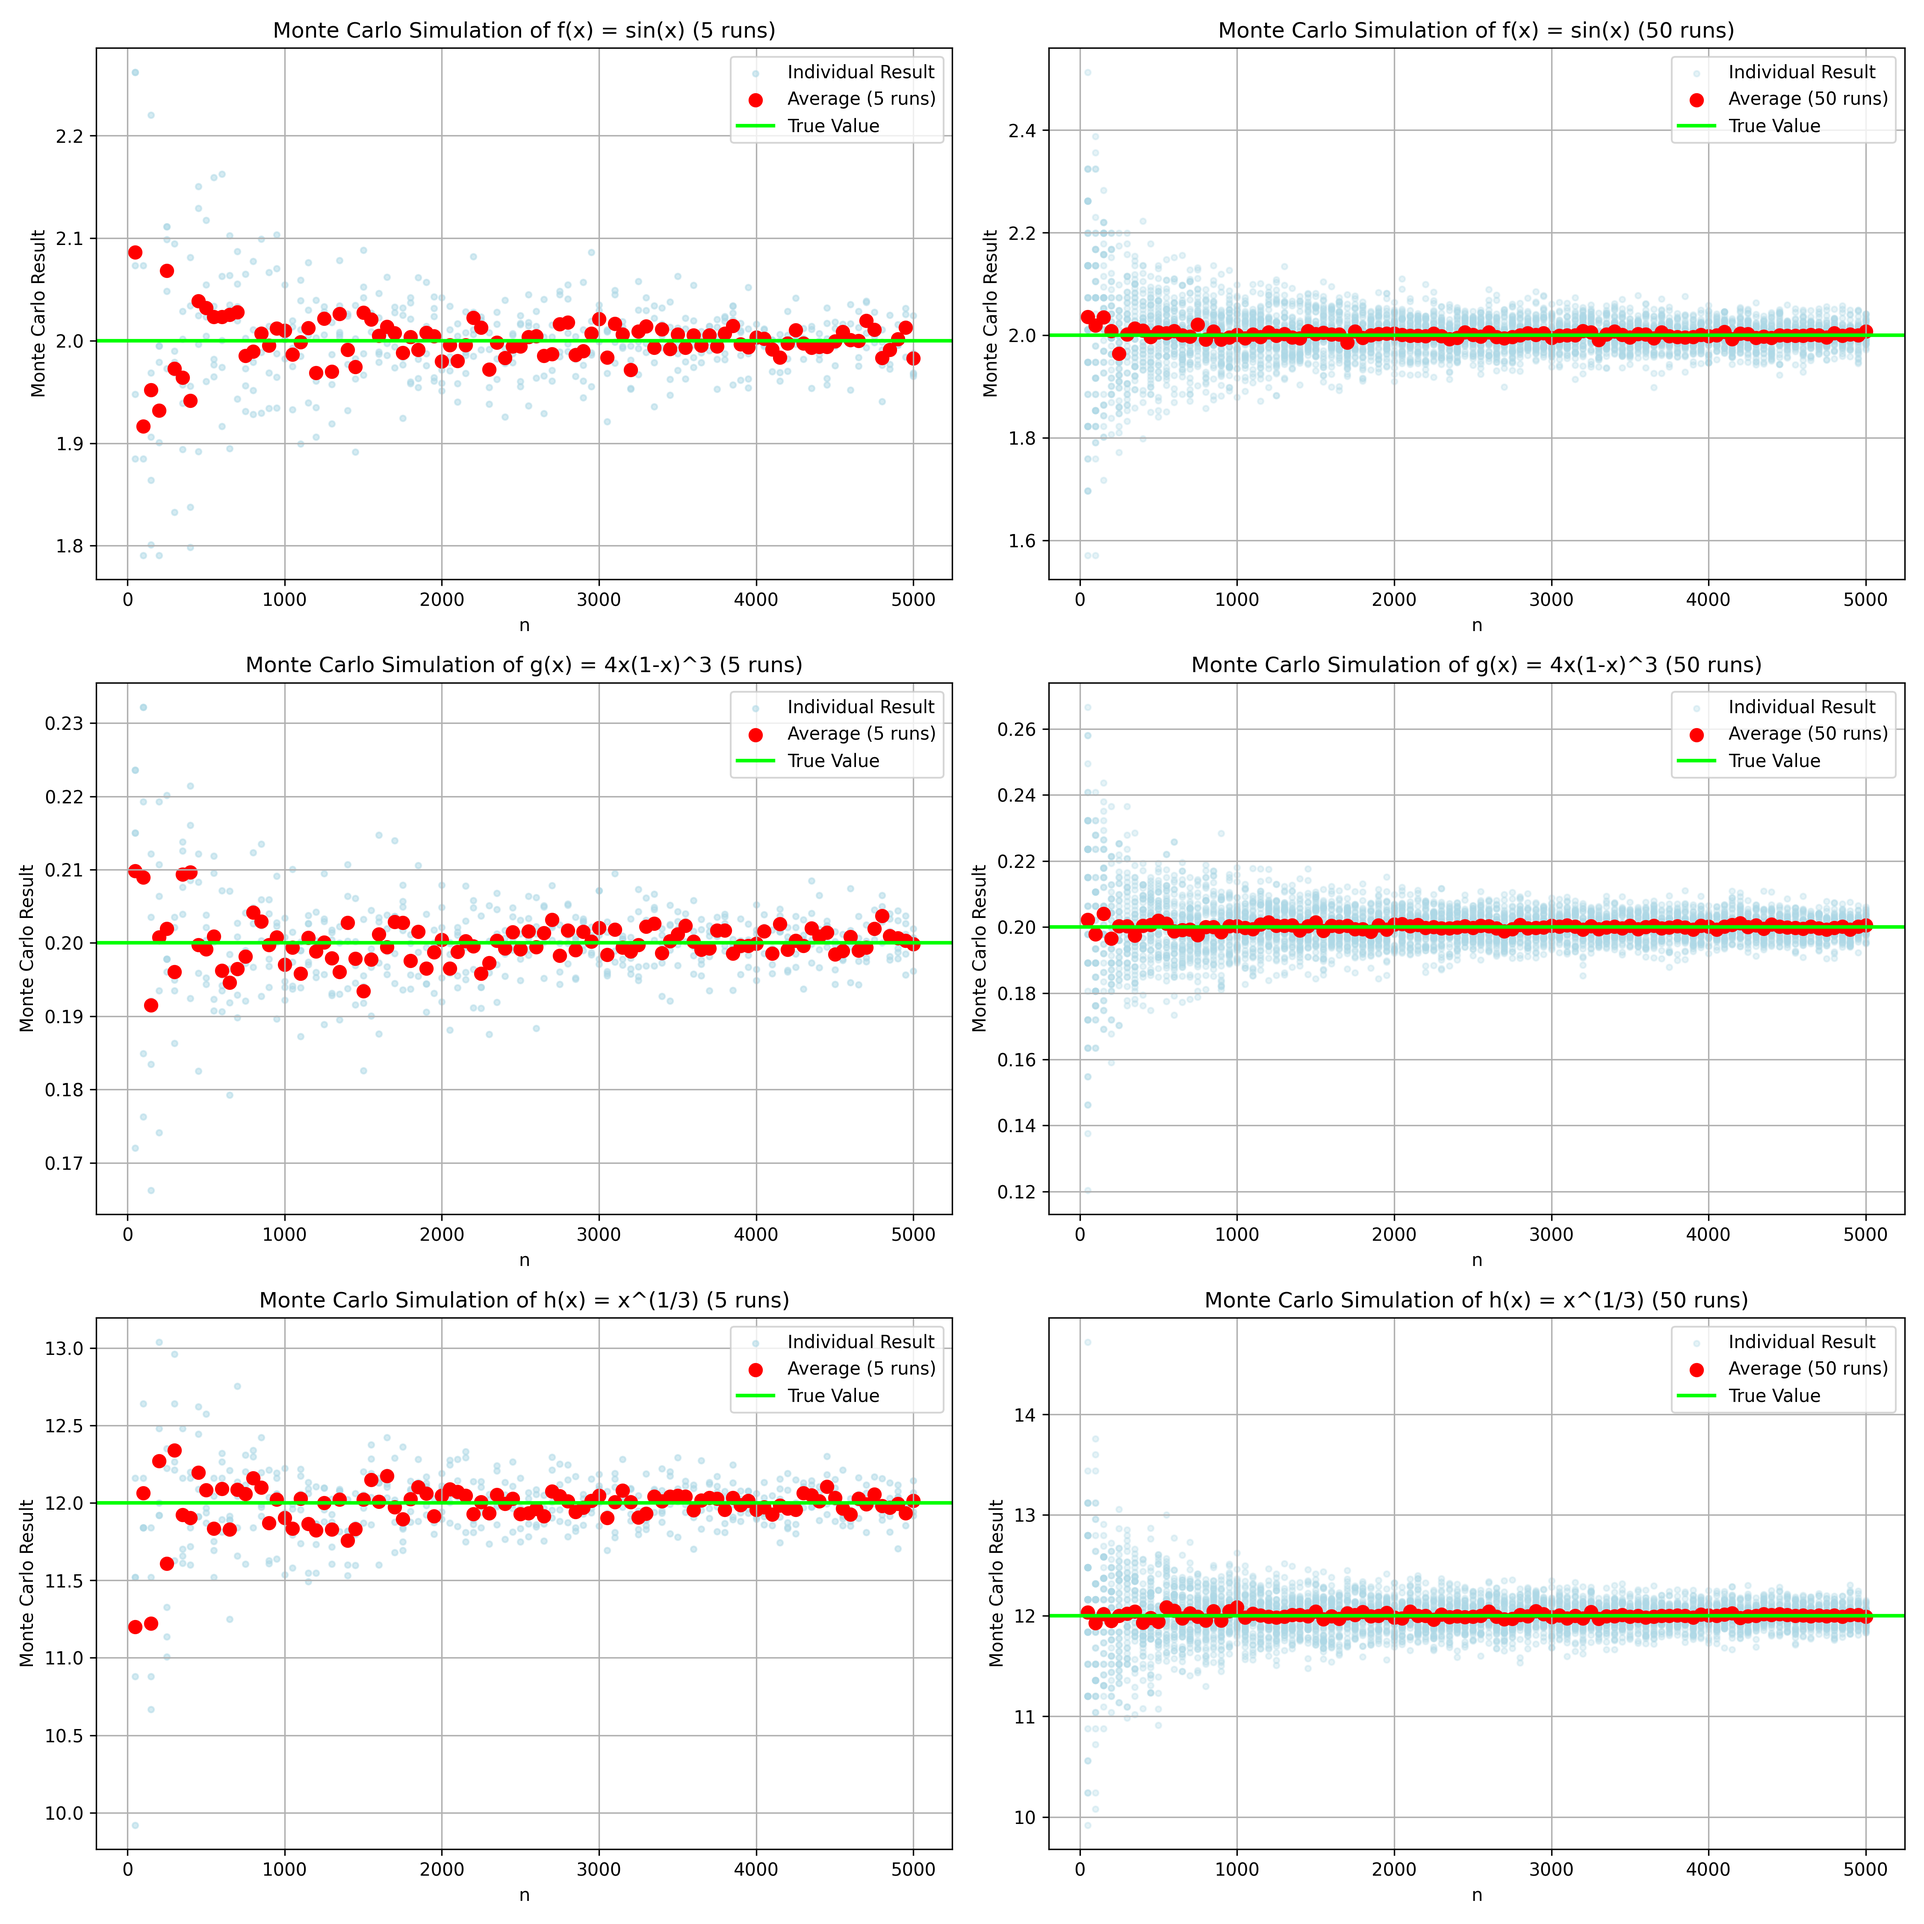
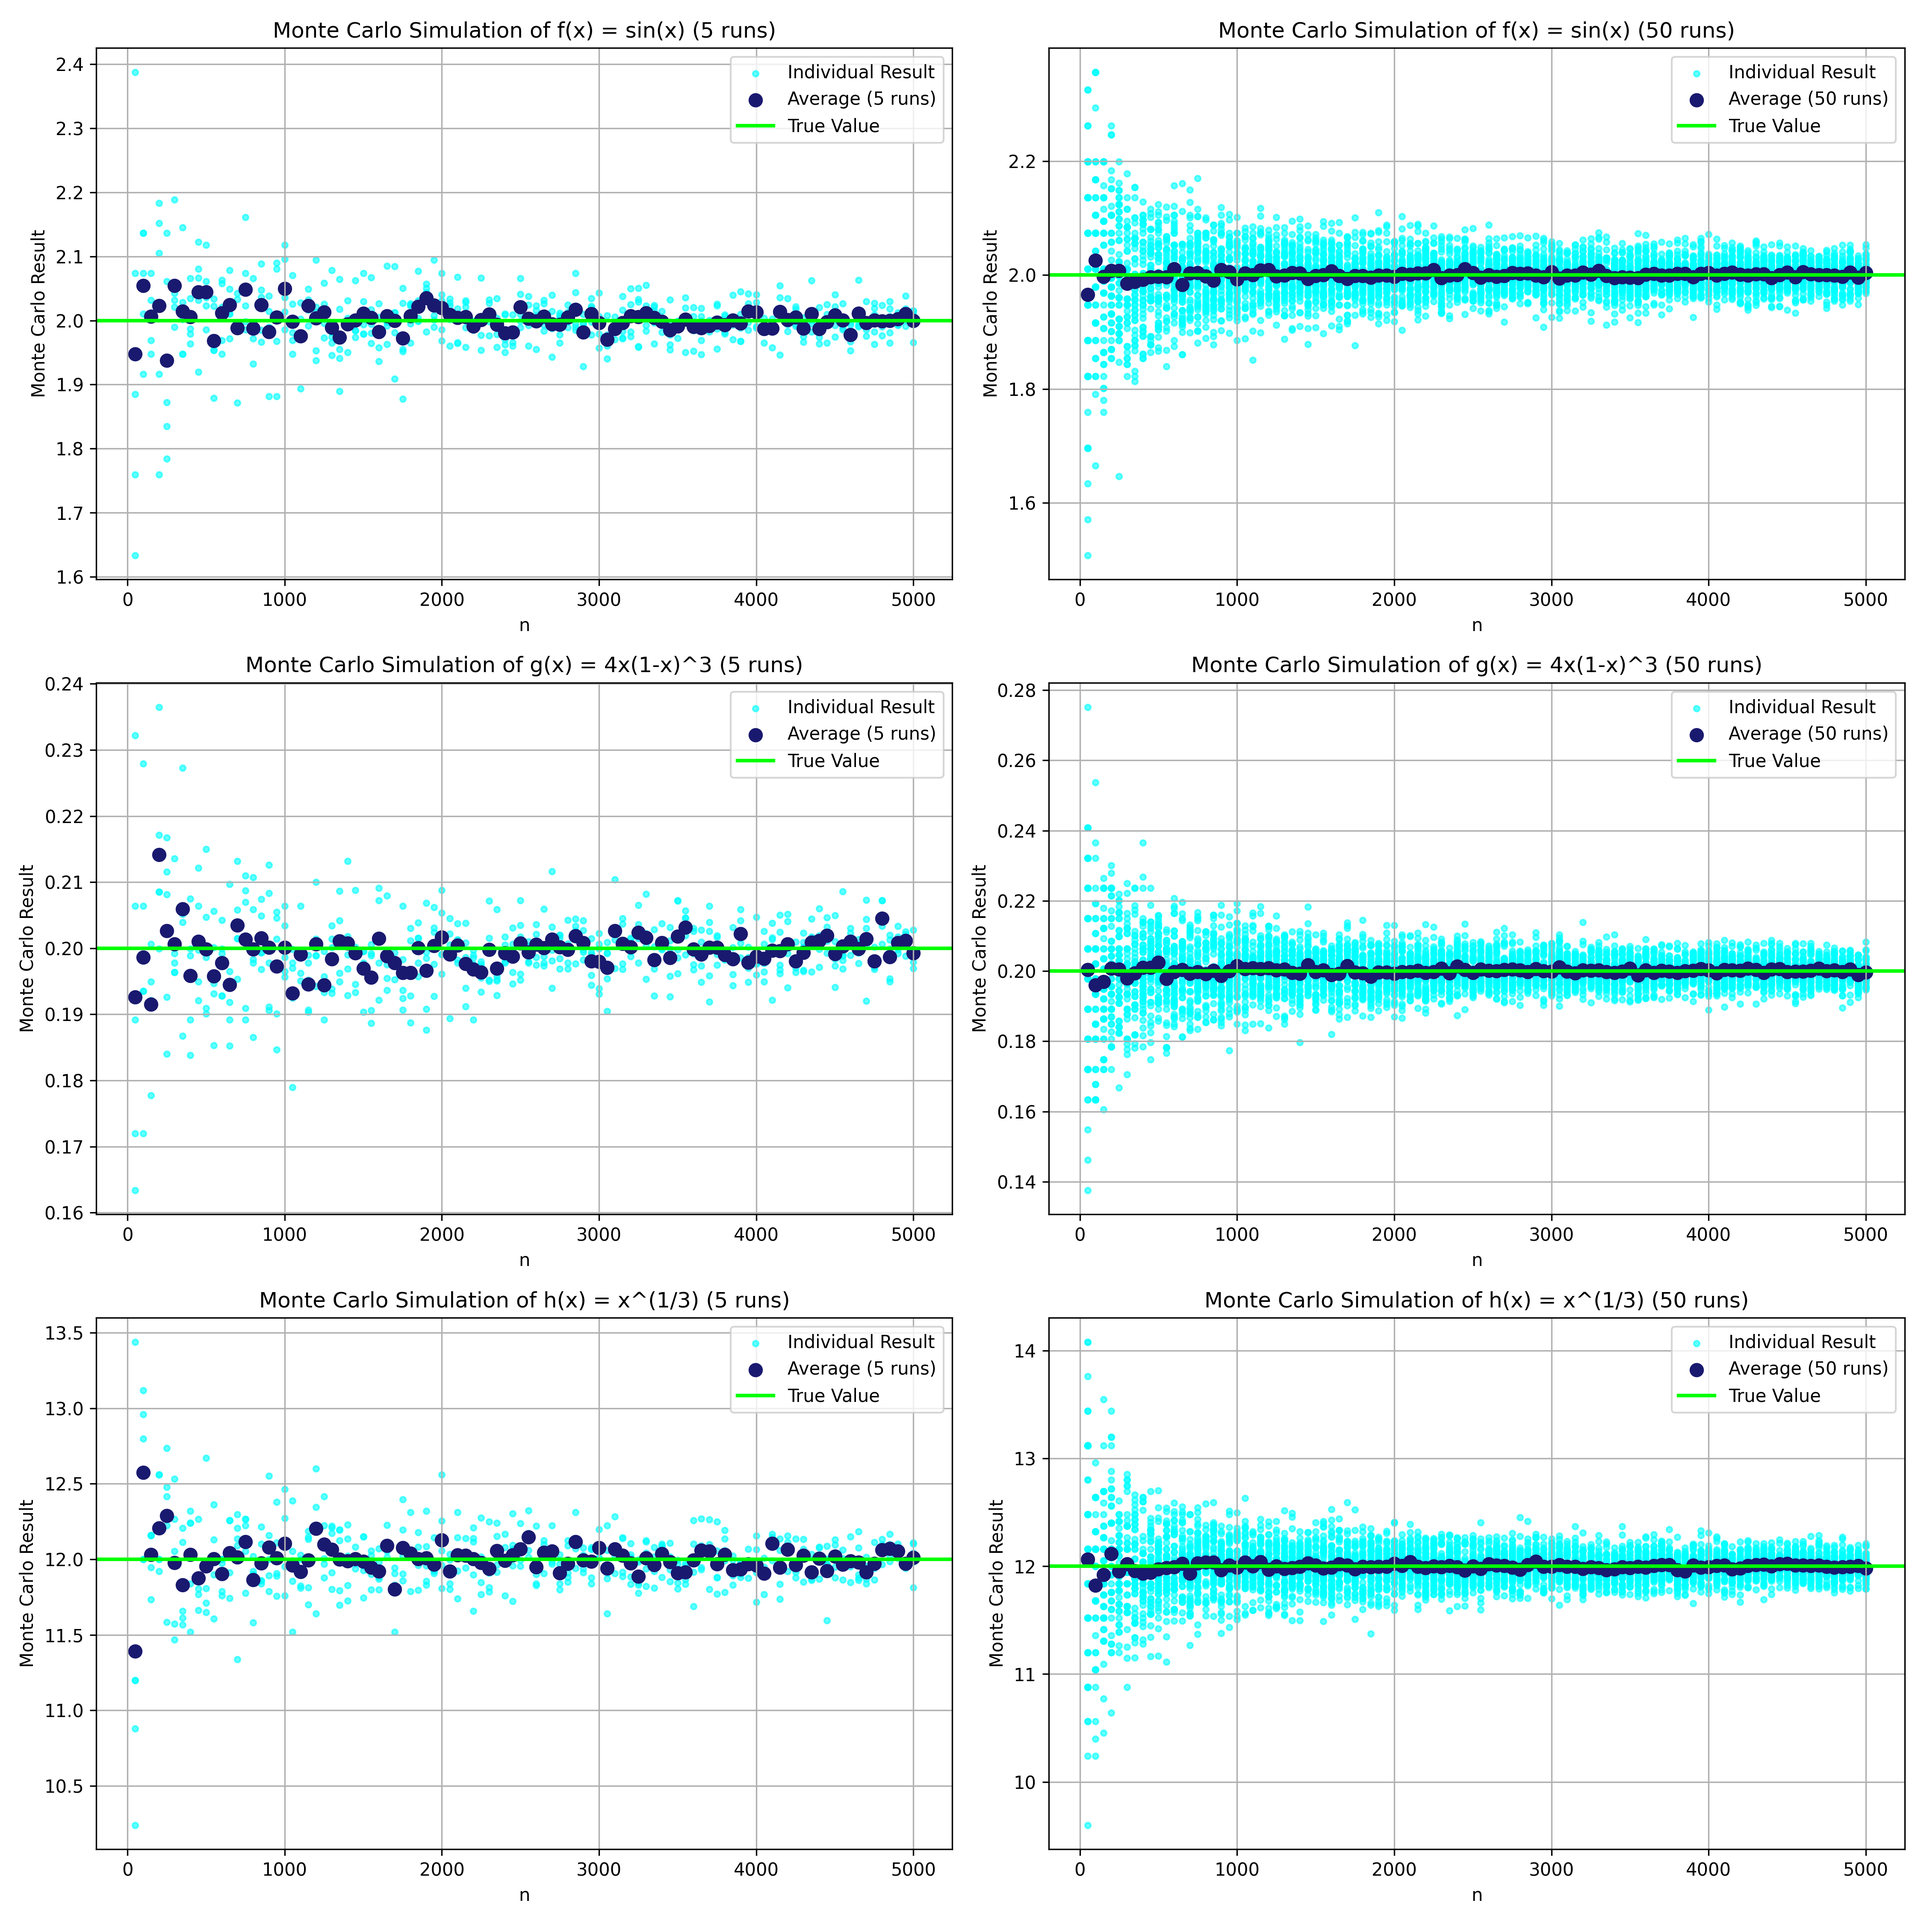
all done just comment left

diff --git a/homework1/plot.py b/homework1/plot.py
@@ -54,9 +54,9 @@ start_time = time.time()
 plt.subplot(3, 2, 1)
 f_results_5 = [run_f(n, 5) for n in n_values]
 for n, results in zip(n_values, f_results_5):
-    plt.scatter([n]*len(results), results, color='lightblue', alpha=0.5, s=10, label='Individual Result' if n == 50 else "")  # Scatter for 5 runs
+    plt.scatter([n]*len(results), results, color='cyan', alpha=0.6, s=10, label='Individual Result' if n == 50 else "")  # Scatter for 5 runs
 f_avg_5 = [np.mean(res) for res in f_results_5]
-plt.scatter(n_values, f_avg_5, label='Average (5 runs)', color='red', linewidth=2)
+plt.scatter(n_values, f_avg_5, label='Average (5 runs)', color='midnightblue', linewidth=2)
 plt.axhline(y=true_value_f, color='lime', linestyle='-', label='True Value', linewidth=2)
 plt.title("Monte Carlo Simulation of f(x) = sin(x) (5 runs)")
 plt.xlabel("n")
@@ -68,9 +68,9 @@ plt.grid()
 plt.subplot(3, 2, 2)
 f_results_50 = [run_f(n, 50) for n in n_values]
 for n, results in zip(n_values, f_results_50):
-    plt.scatter([n]*len(results), results, color='lightblue', alpha=0.3, s=10, label='Individual Result' if n == 50 else "")  # Scatter for 50 runs
+    plt.scatter([n]*len(results), results, color='cyan', alpha=0.6, s=10, label='Individual Result' if n == 50 else "")  # Scatter for 50 runs
 f_avg_50 = [np.mean(res) for res in f_results_50]
-plt.scatter(n_values, f_avg_50, label='Average (50 runs)', color='red', linewidth=2)
+plt.scatter(n_values, f_avg_50, label='Average (50 runs)', color='midnightblue', linewidth=2)
 plt.axhline(y=true_value_f, color='lime', linestyle='-', label='True Value', linewidth=2)
 plt.title("Monte Carlo Simulation of f(x) = sin(x) (50 runs)")
 plt.xlabel("n")
@@ -82,9 +82,9 @@ plt.grid()
 plt.subplot(3, 2, 3)
 g_results_5 = [run_g(n, 5) for n in n_values]
 for n, results in zip(n_values, g_results_5):
-    plt.scatter([n]*len(results), results, color='lightblue', alpha=0.5, s=10, label='Individual Result' if n == 50 else "")  # Scatter for 5 runs
+    plt.scatter([n]*len(results), results, color='cyan', alpha=0.6, s=10, label='Individual Result' if n == 50 else "")  # Scatter for 5 runs
 g_avg_5 = [np.mean(res) for res in g_results_5]
-plt.scatter(n_values, g_avg_5, label='Average (5 runs)', color='red', linewidth=2)
+plt.scatter(n_values, g_avg_5, label='Average (5 runs)', color='midnightblue', linewidth=2)
 plt.axhline(y=true_value_g, color='lime', linestyle='-', label='True Value', linewidth=2)
 plt.title("Monte Carlo Simulation of g(x) = 4x(1-x)^3 (5 runs)")
 plt.xlabel("n")
@@ -96,9 +96,9 @@ plt.grid()
 plt.subplot(3, 2, 4)
 g_results_50 = [run_g(n, 50) for n in n_values]
 for n, results in zip(n_values, g_results_50):
-    plt.scatter([n]*len(results), results, color='lightblue', alpha=0.3, s=10, label='Individual Result' if n == 50 else "")  # Scatter for 50 runs
+    plt.scatter([n]*len(results), results, color='cyan', alpha=0.6, s=10, label='Individual Result' if n == 50 else "")  # Scatter for 50 runs
 g_avg_50 = [np.mean(res) for res in g_results_50]
-plt.scatter(n_values, g_avg_50, label='Average (50 runs)', color='red', linewidth=2)
+plt.scatter(n_values, g_avg_50, label='Average (50 runs)', color='midnightblue', linewidth=2)
 plt.axhline(y=true_value_g, color='lime', linestyle='-', label='True Value', linewidth=2)
 plt.title("Monte Carlo Simulation of g(x) = 4x(1-x)^3 (50 runs)")
 plt.xlabel("n")
@@ -110,9 +110,9 @@ plt.grid()
 plt.subplot(3, 2, 5)
 h_results_5 = [run_h(n, 5) for n in n_values]
 for n, results in zip(n_values, h_results_5):
-    plt.scatter([n]*len(results), results, color='lightblue', alpha=0.5, s=10, label='Individual Result' if n == 50 else "")  # Scatter for 5 runs
+    plt.scatter([n]*len(results), results, color='cyan', alpha=0.6, s=10, label='Individual Result' if n == 50 else "")  # Scatter for 5 runs
 h_avg_5 = [np.mean(res) for res in h_results_5]
-plt.scatter(n_values, h_avg_5, label='Average (5 runs)', color='red', linewidth=2)
+plt.scatter(n_values, h_avg_5, label='Average (5 runs)', color='midnightblue', linewidth=2)
 plt.axhline(y=true_value_h, color='lime', linestyle='-', label='True Value', linewidth=2)
 plt.title("Monte Carlo Simulation of h(x) = x^(1/3) (5 runs)")
 plt.xlabel("n")
@@ -124,9 +124,9 @@ plt.grid()
 plt.subplot(3, 2, 6)
 h_results_50 = [run_h(n, 50) for n in n_values]
 for n, results in zip(n_values, h_results_50):
-    plt.scatter([n]*len(results), results, color='lightblue', alpha=0.3, s=10, label='Individual Result' if n == 50 else "")  # Scatter for 50 runs
+    plt.scatter([n]*len(results), results, color='cyan', alpha=0.6, s=10, label='Individual Result' if n == 50 else "")  # Scatter for 50 runs
 h_avg_50 = [np.mean(res) for res in h_results_50]
-plt.scatter(n_values, h_avg_50, label='Average (50 runs)', color='red', linewidth=2)
+plt.scatter(n_values, h_avg_50, label='Average (50 runs)', color='midnightblue', linewidth=2)
 plt.axhline(y=true_value_h, color='lime', linestyle='-', label='True Value', linewidth=2)
 plt.title("Monte Carlo Simulation of h(x) = x^(1/3) (50 runs)")
 plt.xlabel("n")

diff --git a/homework1/circle.py b/homework1/circle.py
@@ -1,0 +1,51 @@
+import numpy as np
+import matplotlib.pyplot as plt
+import time
+import math
+
+# Mersenne Twister
+rng = np.random.default_rng()  
+
+def f(x):
+    return np.sin(x)  
+
+def generate_point(rng):
+    point = [] 
+    point.append(rng.uniform(0, 1))
+    point.append(rng.uniform(0, 1)) 
+    return point
+
+def monte_carlo_pi(n, rng):
+    inside = 0
+    for i in range(0, n):
+        point = generate_point(rng)
+        if (((point[0]**2)+(point[1]**2))<= 1):
+            inside += 1
+    return (inside/n)*4
+
+def run(n, repetitions):
+    return [monte_carlo_pi(n,rng) for _ in range(repetitions)]
+
+true_value = math.pi
+
+n_values = range(50, 5001, 50)
+start_time = time.time()
+
+# Prepare plots
+plt.figure(figsize=(15, 15))
+
+f_results_100 = [run(n, 100) for n in n_values]
+for n, results in zip(n_values, f_results_100):
+    plt.scatter([n]*len(results), results, color='cyan', alpha=0.5, s=10, label='Individual Result' if n == 50 else "")
+f_avg_100 = [np.mean(res) for res in f_results_100]
+plt.scatter(n_values, f_avg_100, label='Average (100 runs)', color='midnightblue', linewidth=2)
+plt.axhline(y=true_value, color='lime', linestyle='-', label='True Value', linewidth=2)
+plt.title("Monte Carlo Simulation of pi (100 runs)")
+plt.xlabel("n")
+plt.ylabel("Monte Carlo Result")
+plt.legend()
+plt.tight_layout()
+plt.savefig('pi_approx.png', format='png', dpi=600)
+
+end_time = time.time()
+print(f"Execution Time: {end_time - start_time:.2f} seconds")
